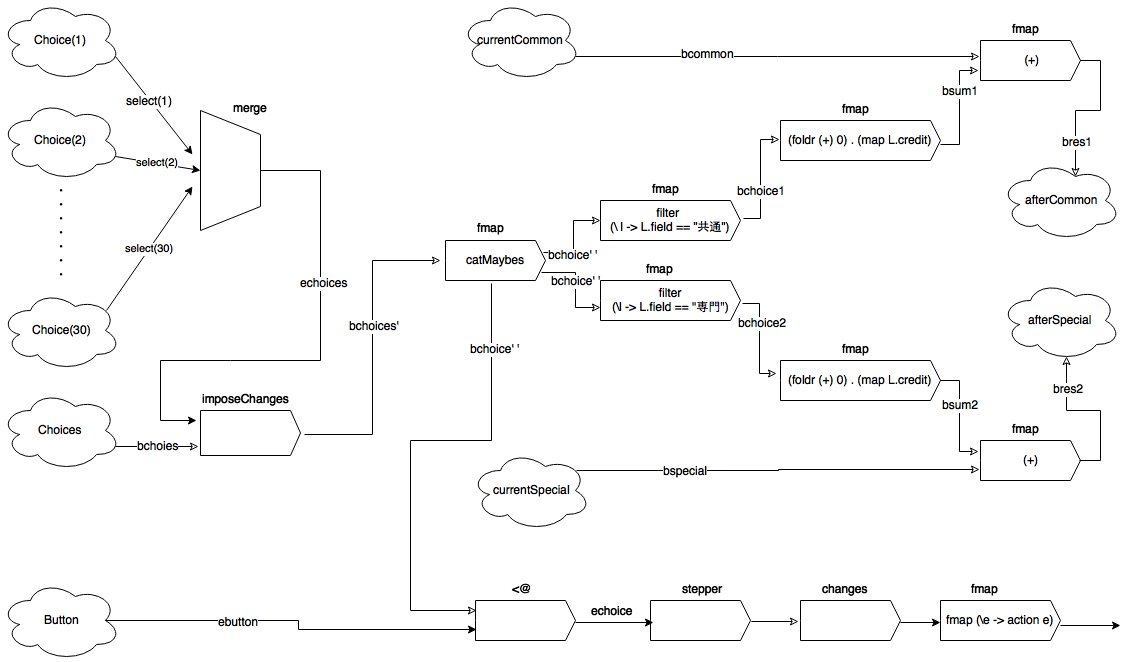
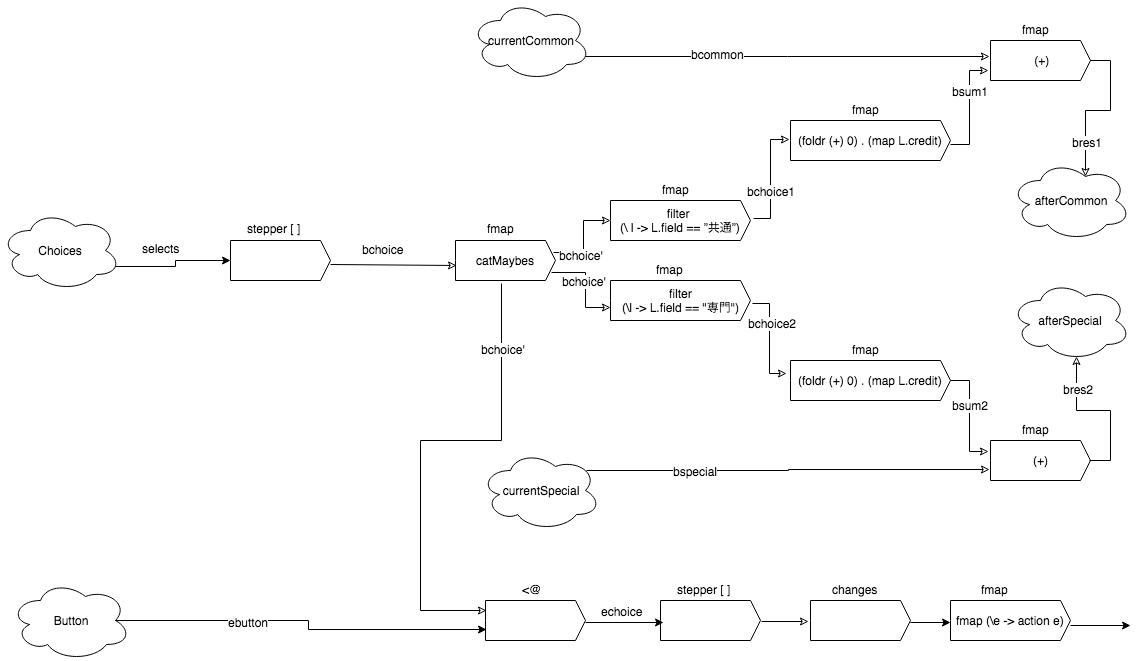
PaparのFunctional Reactive Programmingの章でFRPでの入出力に関する記述を追記した。

diff --git a/report/Paper/README.md b/report/Paper/README.md
@@ -28,12 +28,10 @@
 
 <a name="FRP"></a>
 ## 3. Functional Reactive Programming（FRP）
- 　関数型リアクティブプログラミングとは、関数型プログラミングを用いて、リアクティブプログラミングを実現するパラダイムである。関数型プログラミングとは、数学的な意味の関数に基づいてプログラミングを行うパラダイムである。関数型リアクティブプログラミングにおいて、重要な2つのデータ型と10個のプリミティブ操作がある。
+ 　関数型リアクティブプログラミングとは、関数型プログラミングを用いて、リアクティブプログラミングを実現するパラダイムである。関数型プログラミングとは、数学的な意味の関数に基づいてプログラミングを行うパラダイムである。関数型リアクティブプログラミングにおいて、重要な2つのデータ型（`Event`と`Behavior`）と10個のプリミティブ操作がある。
 
-#### データ型
-
-##### Event
- <details><summary>Eventは、一連のイベントを示すデータ型である。</summary><div>Eventが値（オカレンス）を持つのはイベントが発生した時のみである。Reactive Bananaでは次のように考えることができる。
+#### Event
+ Eventは、一連のイベントを示すデータ型である。Eventが値（オカレンス）を持つのはイベントが発生した時のみである。Reactive Bananaでは次のように考えることができる。
 
  ``` haskell
  type Event a = [(Time, a)]
@@ -48,10 +46,10 @@
     fmap f e = [(time, f a) | (time, a) <- e]
  ```
 
- </div></details>
 
-##### Behavior
- <details><summary>Behaviorは、時間とともに変化する値を示すデータ型である。</summary><div>Behaviorは、常に値を持つ。Reactive Bananaでは次のように考えることができる。
+
+#### Behavior
+ Behaviorは、時間とともに変化する値を示すデータ型である。Behaviorは、常に値を持つ。Reactive Bananaでは次のように考えることができる。
 
  ``` Haskell
  type Behavior a = Time -> a
@@ -71,8 +69,6 @@
     (<*>) :: Behavior (a -> b) -> Behavior a -> Behavior b
     fx <*> bx = \time -> fx time $ bx time
  ```
-
- </div></details>
 
 #### プリミティブ操作
 
@@ -111,53 +107,206 @@
  switchB :: (MonadMoment m) => Behavior a -> Event (Behavior a) -> m (Behavior a)
  ```
 
+#### FRPシステムのI/O
+ 　FRPシステムのI/Oは、MomentIOモナド内で行う。入力に関連する関数は、主に`fromAddHandler`と`fromChanges`であり、出力に関連する関数は、`reactimate`と`reactimate'`である。それぞれ詳細は後述する。なお、ここでのFRPシステムとは、Reactive Bananaを指しており、後述の説明が他のFRPシステムにおいて当てはまるとは限らない。
+
+#### FRPシステムへの入力
+ 　FRPシステムへの入力は、`Handler a`と`AddHandler a`を利用する。各データ型は、`Control.Event.Handler`において次のように定義されている。各データ型の生成は、`newAddHandler :: IO (AddHandler a, Handler a)`によって行う。
+
+ ```Haskell
+
+ -- FRPシステムの外で利用する。
+ type Handler a = a -> IO ()
+
+ -- FRPシステムの中で利用する。
+ newtype AddHandler a = Handler a -> IO (IO())
+
+ -- Handler aとAddHandler aの生成
+ (addHandler, runHandler) <- newAddHandler
+
+ ```
+
+ `AddHandler a`は、EventまたはBehaviorを出力するために、`fromAddHandler :: AddHandler a -> MomentIO (Event a)`または`fromChanges :: a -> AddHandler a -> MomentIO (Behavior a)` の入力として使用される。`Handler a`は、FRPの外で用いられ、実行されるとFRP内にa型のデータが入力され、EventまたはBehaviorとして出力される。
+
+ ```Haskell
+ do
+    (addHandler, runHandler) <- newAddHandler
+
+    let networkDescription = do
+        -- runHandlerが実行されるとEventが発火する
+        e <- fromAddHandler addHandler
+                ・
+                ・
+                ・
+    ・
+    ・
+    ・
+    forever $ fmap read getLine >>= runHandler
+ ```
+
+#### FRPシステムからの出力
+ 　FRPシステムからの出力は、`reactimate :: Event (IO ()) -> MomentIO ()`または`reactimate' :: Event (Future (IO ())) -> MomentIO ()`で行う。ただし、2つのEventがほぼ同時に発火した場合、各Eventに適用された`reactimate`はインターリーブされる。`reactimate'`は、`Event (Future (IO ()))`を入力とし、`MomentIO ()`のアクションを実行する。`Future a`は、イベント処理が完了したのちに`MomentIO ()`のアクションを実行することを保証する。
+
+ ```Haskell
+ do
+    (addHandler, runHandler) <- newAddHandler
+
+    let networkDescription = do
+        e <- fromAddHandler addHandler
+        -- Event IntからEvent (IO ())に変換し、Event (IO ())が持つIO ()を実行する。
+        reactimate $ (\x -> putStrLn $ replicate x "*") <$> e
+    ・
+    ・
+    ・
+    forever $ fmap read getLine >>= runHandler
+ ```
+
+#### まとめ
+ 　標準入力から数字を入力し、数字の分だけ' * 'を出力するプログラムをReactive Bananaを用いて実装した。そのプログラムを下記に示す。
+
+ ```Haskell
+ module Main
+    ( main
+    ) where
+
+ import Control.Monad
+ import Reactive.Banana
+ import Reactive.Banana.Frameworks
+
+ main :: IO ()
+ main = do
+    (addHandler, runHandler) <- newAddHandler
+
+    let networkDescription :: MomentIO ()
+        networkDescription = do
+            e <- fromAddHandler addHandler
+            reactimate $ (\x -> putStrLn $ replicate x '*') <$> e
+
+    -- MomentIO ()をEventNetworkにコンパイルする。
+    network <- compile networkDescription
+
+    -- EventNetworkを実行する。
+    actuate network
+
+    forever $ fmap read getLine >>= runHandler
+ ```
+
+ `compile :: MomentIO () -> IO EventNetwork`は、FRPを用いて定義したイベントロジックを`EventNetwork`にコンパイルする。`EventNetwork`は、コンパイルされたイベントロジックを示すデータ型であり、実行中または停止中の２つの状態を取りうる。`EventNetwork`を実行状態にするには、`actuate :: EventNetwork -> IO ()`を用いる。一方、停止状態にするには、`pause :: EventNetwork -> IO ()`を実行する。
+
 <a name="Specification"></a>
 ## 4.仕様
  　本研究で開発するソフトウェアの仕様は次のように定義する。
 
- <details><summary>学期情報の表示する。</summary>
+ <details><summary>学期情報の表示する。</summary><br>
  学期情報とは、現在行われている履修登録が前期に受ける講義の選択なのか後期に受ける講義の選択であるのか示す情報である。また、履修登録期間も表示する。これらの情報は全てテキストによって表示される。
  </details>
 
  <br>
 
- <details><summary>学生情報の表示する。</summary><div>
+ <details><summary>学生情報の表示する。</summary><br>
  学生情報とは、次の属性を持つ情報である。
- - 学生証番号
- - 氏名
- - セメスター
- - 学部
- - 学科
+ <ul>
+    <li>学生証番号</li>
+    <li>氏名</li>
+    <li>セメスター</li>
+    <li>学部</li>
+    <li>学科</li>
+ </ul>
  これらは全てテキストで表示される。
- </div></details>
+ </details>
 
  <br>
 
- <details><summary>講義選択を行う選択メニューの設置する。</summary><div>
+ <details><summary>講義選択を行う選択メニューの設置する。</summary><br>
  講義の情報は次のような属性を持つ情報である。
- - ID
- - 講義名
- - 分野
- - 開講期間
- - 単位
- 分野は、共通または専門のどちらかを示す情報であり、開講期間は、前期または後期の情報と何曜日の何時限目に行われる講義であるのかを示す情報である。これらは、選択メニューのコンポーネントによって示される。
- </div></details>
+ <ul>
+    <li>ID</li>
+    <li>講義名</li>
+    <li>分野</li>
+    <li>開講期間</li>
+    <li>単位</li>
+ </ul>
+ ただし、IDは講義において一意に決まる数値を示し、分野は共通または専門のどちらかを示す情報であり、開講期間は前期または後期の情報と何曜日の何時限目に行われる講義であるのかを示す情報である。また,月曜日から土曜日の一限目から五限目まで開講している大学を想定している。これらは、選択メニューのコンポーネントによって示される。
+ </details>
 
  <br>
 
- <details><summary>現在の総取得単位数の表示する。</summary>
+ <details><summary>現在の総取得単位数の表示する。</summary><br>
  現在の総取得単位数は、履修登録をしている学生の現在取得している単位の合計である。この情報は、テキストによって示される。<br>
  </details>
 
  <br>
- 
- <details><summary>講義選択後の総単位数の表示する。</summary>
+
+ <details><summary>講義選択後の総単位数の表示する。</summary><br>
  講義選択後の総単位数は、現在の総取得単位数と選択した講義の単位全ての合計との和である。この情報はテキストによって示される。
  </details>
 
 
 <a name="Implementation"></a>
 ## 5.実装
+ 次の環境の元で、定義した仕様を満たすソフトウェアを開発する。
+
+### 開発環境
+ <dl>
+    <dt>プラットフォーム</dt>
+    <dd><table>
+        <tr>
+            <th>マシン</th>
+            <th>オペレーティングシステム</th>
+            <th>プロセッサ</th>
+            <th>メモリ</th>
+        </tr>
+        <tr>
+            <td>Apple Macbook Air(11-inch, Mid2013)</td>
+            <td>macOS-ver10.13.3</td>
+            <td>1.3GHz-intel-Core-i5</td>
+            <td>4GB-1600MHz-DDR3</td>
+        </tr>
+    </table></dd>
+
+    <dt>DBMS</dt>
+    <dd>PostgreSQL(ver10.1)</dd>
+
+    <dt>言語</dt>
+    <dd><table>
+        <tr>
+            <th>言語</th>
+            <th>コンパイラ</th>
+            <th>ビルドツール</th>
+        </tr>
+        <tr>
+            <td><a href=https://www.haskell.org/>Haskell</a></td>
+            <td>GHC(ver8.0.2)</td>
+            <td><a href=https://docs.haskellstack.org/en/stable/README/>Haskell Stack(ver1.6.3)</a></td>
+        </tr>
+    </table></dd>
+
+    <dt>パッケージ</dt>
+    <dd>
+        <ul>
+            <li><a href=https://hackage.haskell.org/package/HDBC>HDBC(ver2.4.0.2)</a></li>
+            <li><a href=https://hackage.haskell.org/package/relational-record-0.1.8.0>relational-record(ver0.1.8.0)</a></li>
+            <li><a href=https://hackage.haskell.org/package/wx>wx(ver0.92.3.0)</a></li>
+            <li><a href=https://hackage.haskell.org/package/reactive-banana>reactive-banana(ver1.1.0.1)</a></li>
+            <li><a href=https://hackage.haskell.org/package/reactive-banana-wx>reactive-banana-wx(ver1.1.1.0)</a></li>
+        </ul>
+    </dd>
+    <dd>ただし、これらのパッケージが依存しているパッケージについては記述を省略している。</dd>
+ </dl>
+
+#### 開発
+ 　各GUIのコンポーネントは[wxHaskell](https://wiki.haskell.org/WxHaskell)を用いて生成する。GUIの詳細な実装に関しては説明を省略する。<br>
+ 　選択メニューとボタンは各コンポーネントから発生したイベントに対しての振る舞いを定義する必要がある。イベントロジックは次の図のように定義する。
+
+ ![イベントロジックのデータフロー](../resources/イベントロジックの概念図.png "イベントロジックの概念図")
+
+ この図に用いられている図形ならびに矢印の意味は次のように定義する。
+ - 雲型の図形 = GUIコンポーネント
+ - 五角形 = FRP内の演算
+ - 黒矢印 = Event
+ - 白矢印 = Behavior
+
+ 　Choicesは30個のChoiceを表現している。今回、FRP内へのデータの入力は選択された講義のリストの形で行うことにした。具体的には選択メニューとそのコンポーネントが持つ講義のリストとのタプルのリストを入力とし、各選択メニューに1つのコールバック関数を登録し
 
 <a name="Evaluation"></a>
 ## 6.評価
@@ -167,5 +316,6 @@
 
 <a name="Reference">
 ## 8.参考文献
- [1] [id]: url "title"
- [2]
+ [1] Conel Elliot, Paul Huduk (1997)『[Functional Reactive Animation](http://conal.net/papers/icfp97/)』<br>
+ [2] Conel Elliot (2009) 『[Push-Pull Functional Reactive Programming](http://conal.net/papers/push-pull-frp/)』<br>
+ [3] Stephen Blackheath, Anthony Jones (2017)『[関数型リアクティブプログラミング](https://www.google.co.jp/url?sa=t&rct=j&q=&esrc=s&source=web&cd=1&ved=0ahUKEwjDlOPEurzZAhUMiLwKHfw6A0oQFggoMAA&url=https%3A%2F%2Fwww.amazon.co.jp%2F%25E9%2596%25A2%25E6%2595%25B0%25E5%259E%258B%25E3%2583%25AA%25E3%2582%25A2%25E3%2582%25AF%25E3%2583%2586%25E3%2582%25A3%25E3%2583%2596%25E3%2583%2597%25E3%2583%25AD%25E3%2582%25B0%25E3%2583%25A9%25E3%2583%259F%25E3%2583%25B3%25E3%2582%25B0-Programmers-SELECTION-Stephen-Blackheath%2Fdp%2F4798145564&usg=AOvVaw1uniYw4x4MOvWn2CxE1Hnp)』<br>
